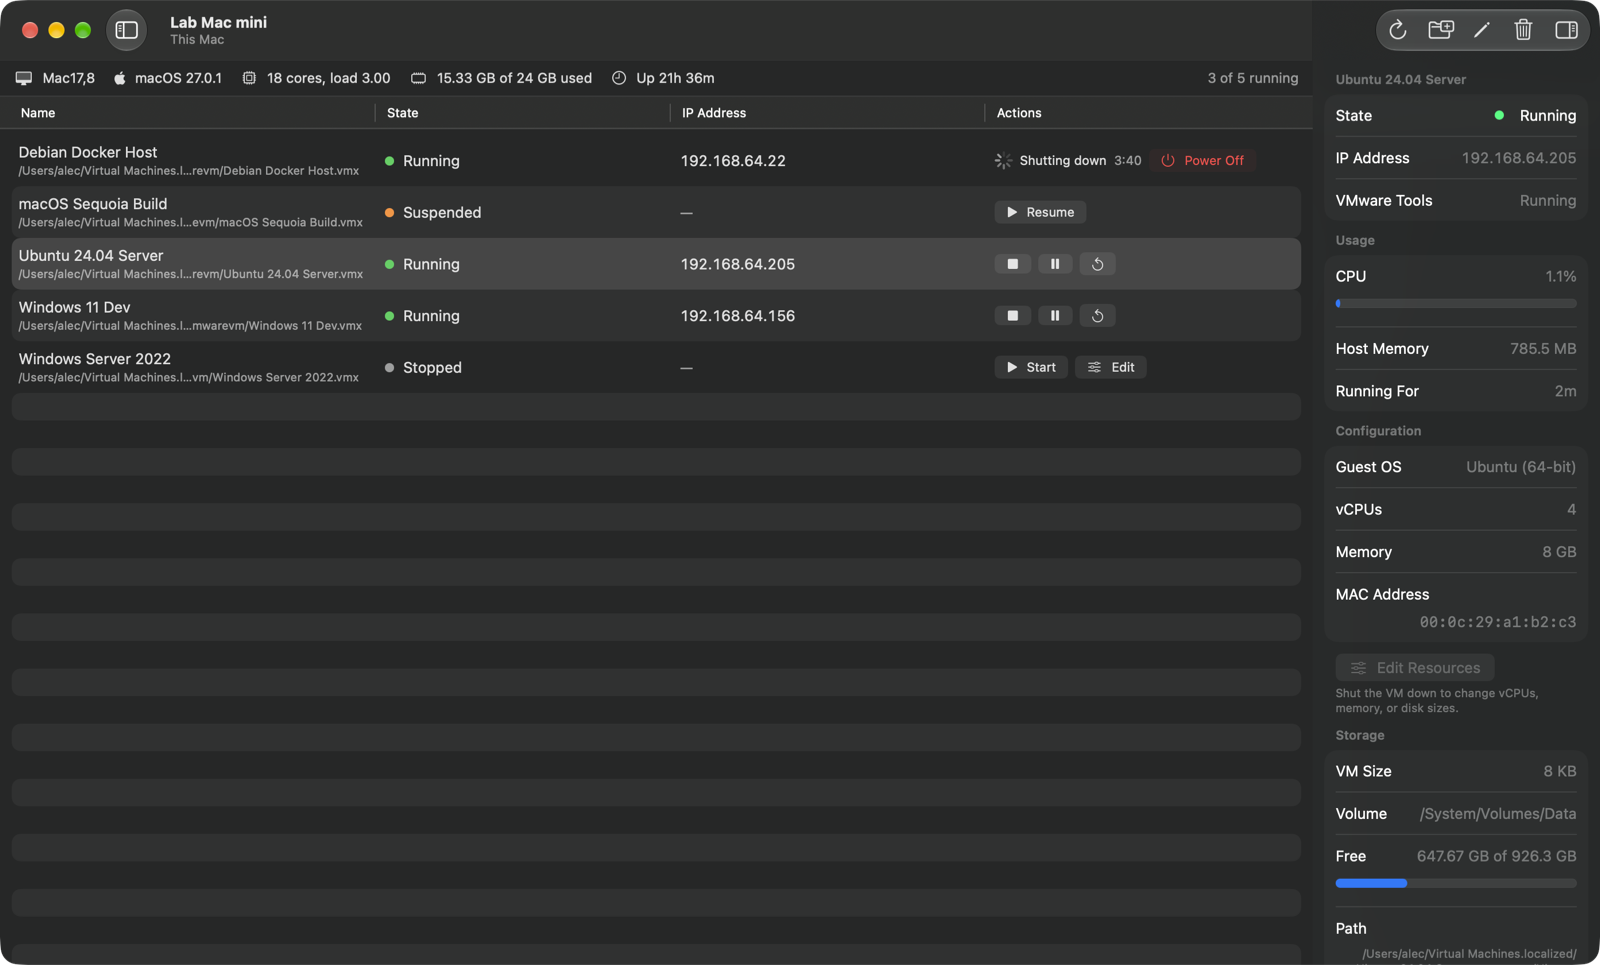
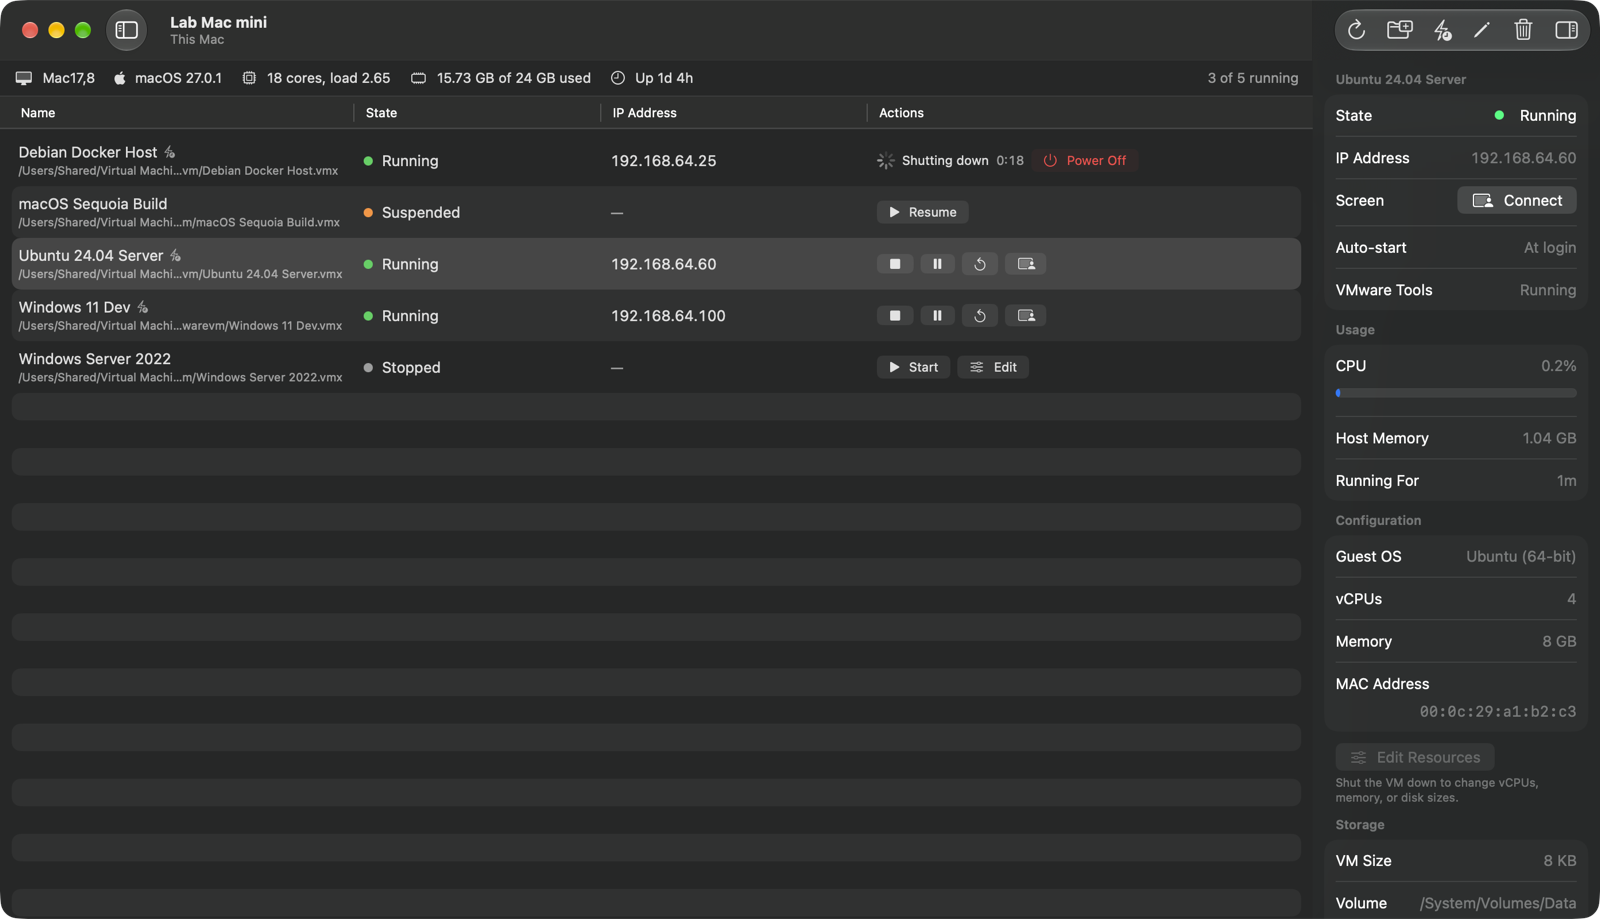
VMDeck 1.1.0
Connect (RDP/VNC) and Auto-Start at login, refreshed screenshots.

diff --git a/README.md b/README.md
@@ -13,7 +13,7 @@ Requires macOS 15 or later. VMDeck is a Universal app and runs on both Apple
 silicon and Intel Macs. Each host needs VMware Fusion 13; the host's own
 architecture doesn't matter to VMDeck.
 
-![VMDeck's main window: a host's VMs with their state, IP address, and actions, a VM shutting down with a timer and a Power Off button, and the stats panel for the selected VM](docs/main-window.png)
+![VMDeck's main window: a host's VMs with their state, IP address, and actions including Connect, a VM shutting down with a timer and a Power Off button, auto-start badges, and the stats panel for the selected VM](docs/main-window.png)
 
 ## Features
 
@@ -106,6 +106,8 @@ On the Mac that runs the VMs:
   has come from the guest this boot, and *Not installed* otherwise.
 
 ### Auto-Start
+
+![The Auto-Start sheet: toggles for each VM, wait-for-volumes and pause settings, and a warning that automatic login is off on the host](docs/auto-start.png)
 
 **Auto-Start** in the toolbar picks VMs a host starts on its own at login.
 VMDeck installs a per-user LaunchAgent on the host
